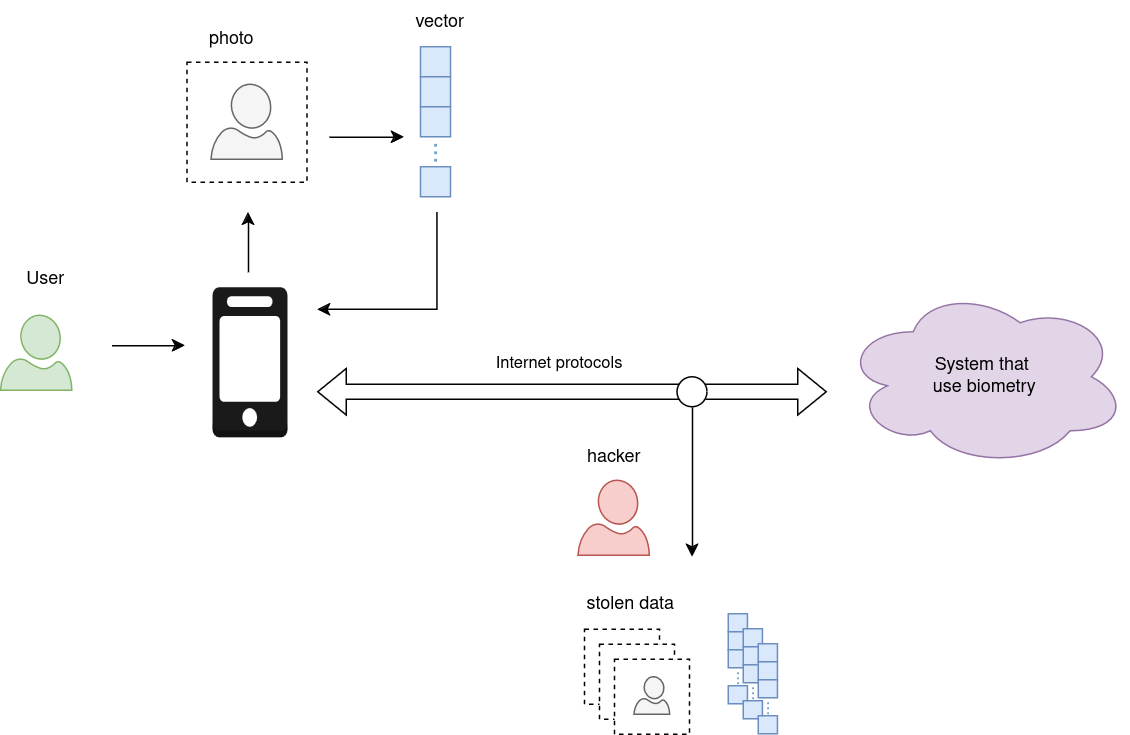
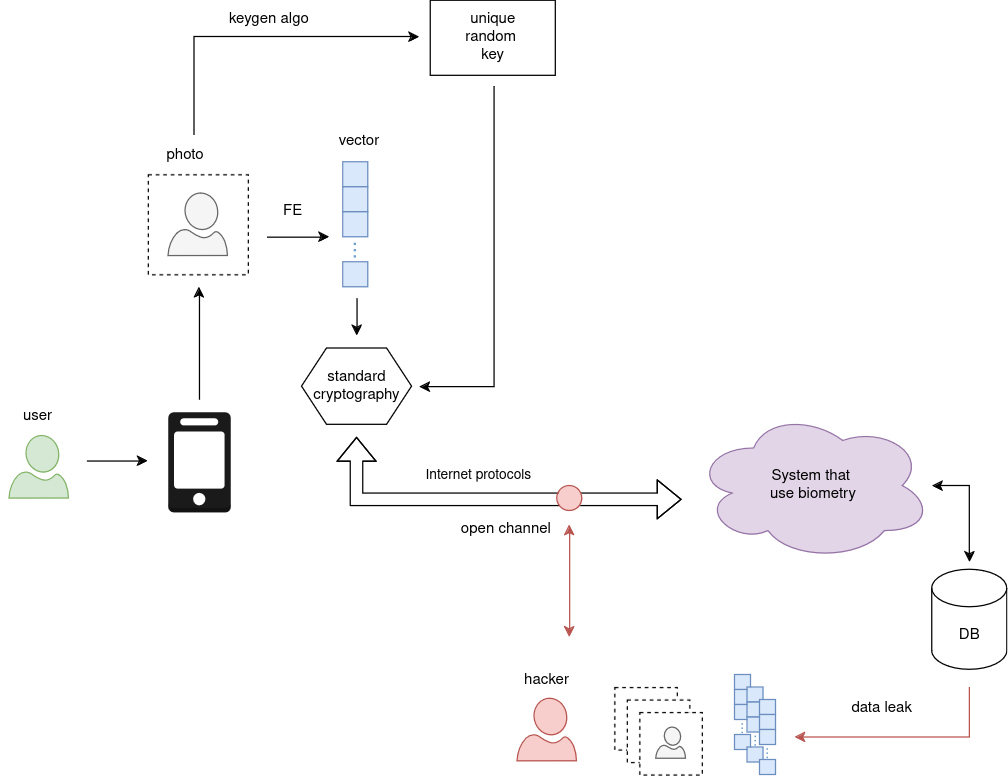
updt demo scripts

diff --git a/train_adapter_for_instantid/demo.py b/train_adapter_for_instantid/demo.py
@@ -1,51 +1,42 @@
 import os
 import base64
 from easydict import EasyDict as edict
-from tools import initialize_onnx_session, CustomDataSet, extract_template_from_image, load_image, \
-    initialize_instantid_session, reconstruct_face_from_template, prepare_target_pose_kps, crop_square_roi, bbox_upscale
+from tools import initialize_onnx_session, extract_template_from_image, load_image, \
+    initialize_instantid_session, reconstruct_face_from_template, prepare_target_pose_kps
 import numpy as np
 import pickle
 from argparse import ArgumentParser
 from insightface.app import FaceAnalysis
 
 argparser = ArgumentParser("Tool to convert buffalo_l templates (non normalized) into photo of the face")
-argparser.add_argument("--input", default="./input.jpg", help="source file to reconstruct (could be .jpg, .pkl or .b64)")
-argparser.add_argument("--adapter", default="./models/buffalo2antelope_adapter_HQ_4000.onnx",
+argparser.add_argument("--input", default="./examples",
+                       help="path to files to reconstruct (files could be .jpg, .png, .pkl or .b64)")
+argparser.add_argument("--adapter", default="./models/buffalo2antelope_adapter_100K.onnx",
                        help="weights of adapter")
-argparser.add_argument("--target_pose_photo", default="./artifacts/portrait1280p.jpg", help="photo to copy face pose")
-argparser.add_argument("--output", default=f"./output.jpg", help="where to save generation result")
+argparser.add_argument("--target_pose_photo", default="./examples/portrait1280p.jpg", help="photo to copy face pose")
+argparser.add_argument("--reconstruction_iterations", type=int, default=16, help="diffusion iterations to make")
+argparser.add_argument("--output", default=f"./examples/adapter", help="where to save generation results")
 args = argparser.parse_args()
 
 if not os.path.exists(args.input):
     print(f"Can not find input '{args.input}'! Abort...")
     exit()
+if not os.path.exists(args.output):
+    os.makedirs(args.output)
+    if not os.path.exists(args.output):
+        print(f"Can not create output path '{args.output}'! Abort...")
+        exit()
 
 cfg = edict()
+cfg.buffalo_cosine_threshold = 0.661  # measured for FMR 1E-6
+cfg.max_allowed_attempts_to_generate_face = 4  # sometime diffusion could not generate face (wrong template projection)
 cfg.target_reconstruction_size = (512, 512)
-cfg.reconstruction_iterations = 40  # low values produce low quality results, high values took too long time
+cfg.reconstruction_iterations = args.reconstruction_iterations
 
 buffalo = FaceAnalysis(name='buffalo_l', root='./', providers=['CUDAExecutionProvider', 'CPUExecutionProvider'])
 buffalo.prepare(ctx_id=0, det_size=(640, 640))
 
-ot = None
-if '.jpg' in args.input or '.png' in args.input:
-    info = extract_template_from_image(load_image(args.input), fa_model=buffalo)
-    if len(info) == 0:
-        print("Can not find face on input image! Abort....")
-    ot = info['embedding']
-elif '.pkl' in args.input:
-    with open(args.input, 'rb') as i_f:
-        ot = pickle.load(i_f)
-elif '.b64' in args.input:
-    with open(args.input, 'r') as i_f:
-        bin_data = base64.b64decode(i_f.read().encode())
-        ot = np.frombuffer(bin_data, dtype=np.float)
-
-if ot is None:
-    print("Template for face generation was not extracted or read from disk! Abort...")
-    exit()
-
-antelope = FaceAnalysis(name='antelopev2', root='./', providers=['CPUExecutionProvider'])
+antelope = FaceAnalysis(name='antelopev2', root='./', providers=['CUDAExecutionProvider', 'CPUExecutionProvider'])
 antelope.prepare(ctx_id=0, det_size=(640, 640))
 
 adapter = initialize_onnx_session(model_path=args.adapter, use_cuda=True)
@@ -54,20 +45,73 @@ instantid = initialize_instantid_session()  # leave default arguments
 
 target_pose_kps = prepare_target_pose_kps(args.target_pose_photo, antelope)
 
-face_not_detected = True
-while face_not_detected:
-    pilimg = reconstruct_face_from_template(template=ot,
-                                            instantid_session=instantid,
-                                            adapter_session=adapter,
-                                            target_kps=target_pose_kps,
-                                            target_size=cfg.target_reconstruction_size,
-                                            iterations=cfg.reconstruction_iterations)
-    info = extract_template_from_image(pilimg, buffalo)
-    if info is not None:
-        rnt = info['embedding'] / np.linalg.norm(info['embedding'])
-        face_not_detected = False
+cosines = []
+for filename in [f.name for f in os.scandir(args.input) if f.is_file()]:
+    ot = None
+    abs_filename = os.path.join(args.input, filename)
+    if '.jpg' in abs_filename or '.jpeg' in abs_filename or '.png' in abs_filename:
+        info = extract_template_from_image(load_image(abs_filename), fa_model=buffalo)
+        if info is None:
+            print(f"Can not detect face on '{abs_filename}'! File will be skipped...")
+            continue
+        ot = info['embedding']
+    elif '.pkl' in abs_filename:
+        with open(abs_filename, 'rb') as i_f:
+            ot = pickle.load(i_f)
+    elif '.b64' in abs_filename:
+        with open(abs_filename, 'r') as i_f:
+            bin_data = base64.b64decode(i_f.read().encode())
+            ot = np.frombuffer(bin_data, dtype=np.float)
+    else:
+        continue
+    # format validation
+    if ot is None:
+        print(f"File: '{abs_filename}' >> template was not extracted or can not be read from disk! Abort...")
+        exit()
+    if not isinstance(ot, np.ndarray):
+        print(f"File: '{abs_filename}' >> template is not numpy array! Abort...")
+        exit()
+    if ot.shape != (512,) and ot.shape != (1, 512):
+        print(f"File: '{abs_filename}' >> template have wrong shape {ot.shape}! Abort...")
+        exit()
+    if 0.999 <= np.linalg.norm(ot) < 1.001:
+        print(f"File: '{abs_filename}' >> template should not be normalized ! Abort...")
+        exit()
 
-ont = ot / np.linalg.norm(ot)
-cosine = np.dot(rnt, ont)
-print(f"COSINE: {cosine:.4f}")
-pilimg.save(args.output)
+    fail_iterations = 0
+    face_not_detected = True
+    while face_not_detected:
+        pilimg = reconstruct_face_from_template(template=ot,
+                                                instantid_session=instantid,
+                                                adapter_session=adapter,
+                                                target_kps=target_pose_kps,
+                                                target_size=cfg.target_reconstruction_size,
+                                                iterations=cfg.reconstruction_iterations)
+        info = extract_template_from_image(pilimg, buffalo)
+        if info is not None:
+            rnt = info['embedding'] / np.linalg.norm(info['embedding'])
+            face_not_detected = False
+        fail_iterations += 1
+        if fail_iterations > cfg.max_allowed_attempts_to_generate_face:
+            break
+    if not face_not_detected:
+        ont = ot / np.linalg.norm(ot)
+        cosine = np.dot(rnt, ont)
+        cosines.append(cosine)
+        print(f"For {abs_filename} we have got COSINE: {cosine:.4f}")
+        abs_target_filename = os.path.join(args.output, filename.rsplit('.', 1)[0] + f"_(cosine {cosine:.4f}).jpg")
+        pilimg.save(abs_target_filename)
+    else:
+        cosines.append(0)
+        print(f"For {abs_filename} we could not reconstruct face within max allowed attempts :(")
+
+if len(cosines) > 0:
+    print(f"STATISTICS ON {len(cosines)} TEST SAMPLES FROM '{args.input}':")
+    cosines = np.array(cosines)
+    print(f" - COSINE MIN:    {cosines.min().item():.4f}")
+    print(f" - COSINE MEAN:   {cosines.mean().item():.4f}")
+    print(f" - COSINE MEDIAN: {np.median(cosines).item():.4f}")
+    print(f" - COSINE MAX:    {cosines.max().item():.4f}")
+    tp = np.sum(cosines > cfg.buffalo_cosine_threshold)
+    print(f"TOTAL: {tp} of {len(cosines)} have cosine with genuine template greater than {cfg.buffalo_cosine_threshold:.3f}"
+          f" >> it is {100*tp/len(cosines):.1f} % of enrolled samples")

diff --git a/train_naive_decoder/demo.py b/train_naive_decoder/demo.py
@@ -12,11 +12,11 @@ from easydict import EasyDict as edict
 
 
 argparser = ArgumentParser("Tool to convert buffalo_l templates (non normalized) into photo of the face")
-argparser.add_argument("--input", default="./input",
+argparser.add_argument("--input", default="../examples",
                        help="path to files to reconstruct (files could be .jpg, .png, .pkl or .b64)")
 argparser.add_argument("--decoder", default="./weights/buffalo_l_decoder_large_on_vgg11_v1.onnx",
                        help="weights of decoder")
-argparser.add_argument("--output", default=f"./output", help="where to save generation results")
+argparser.add_argument("--output", default=f"../examples/decoder", help="where to save generation results")
 args = argparser.parse_args()
 
 if not os.path.exists(args.input):
@@ -40,14 +40,16 @@ buffalo_fa.prepare(ctx_id=0, det_size=(640, 640))
 buffalo = initialize_onnx_session("../models/buffalo_l/w600k_r50.onnx", use_cuda=False)
 decoder = initialize_onnx_session(args.decoder, use_cuda=False)
 
+cosines = []
 for filename in [f.name for f in os.scandir(args.input) if f.is_file()]:
     ot = None
     abs_filename = os.path.join(args.input, filename)
     if '.jpg' in filename or '.png' in filename:
         source_image = cv2.imread(abs_filename, cv2.IMREAD_COLOR)
         info = extract_template_from_image(source_image, fa_model=buffalo_fa)
-        if len(info) == 0:
-            print("Can not find face on input image! Abort....")
+        if info is None:
+            print(f"Can not detect face on '{abs_filename}'! File will be skipped...")
+            continue
         ot = info['embedding']
     elif '.pkl' in filename:
         with open(args.input, 'rb') as i_f:
@@ -80,6 +82,18 @@ for filename in [f.name for f in os.scandir(args.input) if f.is_file()]:
     rnt = np.reshape(rnt, newshape=(512,))
     ont = np.reshape(ont, newshape=(512,))
     cosine = np.dot(rnt, ont)
+    cosines.append(cosine)
     print(f"For {abs_filename} we have got COSINE: {cosine:.4f}")
     abs_target_filename = os.path.join(args.output, filename.rsplit('.', 1)[0] + f"_(cosine {cosine:.4f}).png")
     cv2.imwrite(abs_target_filename, rec)
+
+if len(cosines) > 0:
+    print(f"STATISTICS ON {len(cosines)} SAMPLES FROM '{args.input}':")
+    cosines = np.array(cosines)
+    print(f" - COSINE MIN:    {cosines.min().item():.4f}")
+    print(f" - COSINE MEAN:   {cosines.mean().item():.4f}")
+    print(f" - COSINE MEDIAN: {np.median(cosines).item():.4f}")
+    print(f" - COSINE MAX:    {cosines.max().item():.4f}")
+    tp = np.sum(cosines > cfg.buffalo_cosine_threshold)
+    print(f"TOTAL: {tp} of {len(cosines)} have cosine with genuine template greater than {cfg.buffalo_cosine_threshold:.3f}"
+          f" >> it is {100*tp/len(cosines):.1f} % of enrolled samples")

diff --git a/train_adapter_for_instantid/validate.py b/train_adapter_for_instantid/validate.py
@@ -31,7 +31,7 @@ cfg.visualize = True
 cfg.visualize_ms = 30  # 0 - wait key press
 cfg.size_for_visualization = (256, 256)
 cfg.target_reconstruction_size = (512, 512)
-cfg.reconstruction_iterations = 15  # low values produce low quality results, high values took too long time
+cfg.reconstruction_iterations = 11  # low values produce low quality results, high values took too long time
 cfg.max_samples_to_collect = args.max_ids  # we will take 1 sample per id
 
 buffalo = FaceAnalysis(name='buffalo_l', root='./', providers=['CUDAExecutionProvider', 'CPUExecutionProvider'])
@@ -90,7 +90,7 @@ for template, photo, filename in test_dataloader:
     # save generation locally
     _id = filename[0].split('/', 1)[0]
     os.makedirs(os.path.join(artifacts_path, _id))
-    pilimg.save(f'{os.path.join(artifacts_path, filename[0])}.jpg')
+    pilimg.save(f'{os.path.join(artifacts_path, filename[0].rsplit(".",1)[0])}.jpg')
 
     if cfg.visualize:
         orig = photo.squeeze(0).cpu().numpy()

diff --git a/train_adapter_for_instantid/tools.py b/train_adapter_for_instantid/tools.py
@@ -118,10 +118,10 @@ def reconstruct_face_from_template(template, instantid_session, adapter_session,
     antelope_face_emb = make_onnx_inference(session=adapter_session, input_data=template)
     antelope_face_emb = antelope_face_emb.reshape((512,))
     image = instantid_session(
-        prompt="regular portrait, professional, 4k, highly detailed, white background, hyper-realistic",
+        prompt="regular portrait, professional, 4k, highly detailed, white background, hyper-realistic, skin, pores, wrinkles",
         negative_prompt="drawing, painting, crayon, sketch, graphite, impressionist, noisy, blurry, soft, "
                         "deformed, ugly, text, words, naked, hands, occlusion, sketch, muscules, neon, glow, "
-                        "overexposed",
+                        "overexposed, CGI",
         image_embeds=antelope_face_emb,
         image=target_kps,
         controlnet_conditioning_scale=0.9,

diff --git a/README.md b/README.md
@@ -3,6 +3,19 @@ RBH24
 
 This is SystemFailure solution for Russian Biometric Hackaton 2024
 
+### Reconstructed faces
+
+| Original photo               | Our InstantID adapter                                         | Our decoder                                      |
+|------------------------------|---------------------------------------------------------------|--------------------------------------------------|
+| ![](./examples/crops/ik.jpg) | ![](./examples/adapters/adapterHQ4K/ik_(cosine%200.7578).jpg) | ![](./examples/decoder/ik_(cosine%200.5390).png) |
+|                              | Cosine: 0.7578                                                | Cosine: 0.5390                                   |
+| ![](./examples/crops/ka.jpg) | ![](./examples/adapters/adapterHQ4K/ka_(cosine%200.8520).jpg) | ![](./examples/decoder/ka_(cosine%200.5383).png) |
+|                              | Cosine: 0.8520                                                | Cosine: 0.5383                                   |
+| ![](./examples/crops/kd.jpg) | ![](./examples/adapters/adapterHQ4K/kd_(cosine%200.7562).jpg) | ![](./examples/decoder/kd_(cosine%200.6774).png) |
+|                              | Cosine: 0.7562                                                | Cosine: 0.6774                                   |
+| ![](./examples/crops/at.jpg) | ![](./examples/adapters/adapterHQ4K/at_(cosine%200.7029).jpg) | ![](./examples/decoder/at_(cosine%200.6036).png) |
+|                              | Cosine: 0.7029                                                | Cosine: 0.6036                                   |
+
 ### Installation
 
 ```bash
@@ -15,10 +28,10 @@ pip install -r requirements.txt
 
 1. [./templatesgen](./templatesgen) - scripts to make photo + biometric templates pairs
 
-2. [./train_naive_decoder](./train_naive_decoder) - tools to train template to photo decoder
+2. [./train_naive_decoder](./train_naive_decoder) - tools to train template to photo decoder (demo included)
 
-3. [./train_adapter_for_instantid](./train_adapter_for_instantid) - tools to train adapter for instantid
+3. [./train_adapter_for_instantid](./train_adapter_for_instantid) - tools to train adapter for instantid (demo included)
 
 4. [./researches](./researches) - some researches we have done along the way
 
-5. [./protection](./protection) - how to protect biometric templates?
+5. [./protection](./protection) - biometric templates protection research

diff --git a/train_adapter_for_instantid/README.md b/train_adapter_for_instantid/README.md
@@ -5,7 +5,9 @@ Here we explore of how to train adapter for stable diffusion for face from biome
 [InstantID](https://github.com/instantX-research/InstantID) is control-net for stable diffusion image generator. It was 
 trained specifically to condition image generation by face similarity score for `insightface/antelopev2`.
 
-## Reasoning
+If you only interestedof how to run results, go to [demo section](#Demo) 
+
+## Experiment reasoning
 
 1. there is a high quality and open source InstanceID model to generate faces from `insightface/antelopev2` feature vector
 2. we have the restriction for attacked model (`insightface/buffalo_l`)
@@ -88,13 +90,15 @@ python validate.py --set glint --max_ids 1000  # test part of glint dataset
 
 ## Demo
 
-Demo allows you to reconstruct face photo from two types of input:
+Demo is a simple script that reconstructs face photos for all files in specific input directory. This files could be 
+original face photos (tebplate extraction by insightface/buffalo_l will be made) or templates in *.pkl or *.b64 formats.
+For each suitable file in input reconstructed face will be saved with the same filename plus cosine similarity with
+the original face template. Before run demo.py, download `buffalo2antelope_adapler_HQ_4K.onnx` file to local disk.
 
- - insighface/buffalo_l template saved as .pkl (numpy array with single (512,) vector of np.float) file or .b64 file (base64 encoded string)
- - photo of a face (insighface/buffalo_l will try to extract template from this photo before reconstruction)
+Link to download adapter: https://disk.yandex.ru/d/7Aq4f_V6bu1V4Q
 
 ```bash
-python demo.py --input source_template.pkl --output ./output.jpg
+python demo.py --input local_path_to_templpates_or_photos_to_reconstruct --output ./output --adapter ./models/buffalo_l_decoder_large_on_vgg11_v1.onnx
 ```
 
-So, reconstructed photo will be saved in --output value. Do not forget to copy `./artifacts` and `./models` to InstatID installation folder!
+Do not forget to copy `./artifacts` and `./models` to InstatID installation folder!

diff --git a/train_naive_decoder/README.md b/train_naive_decoder/README.md
@@ -3,7 +3,9 @@
 Here you can find training scripts and some validation results/artifacts for naive decoder training.
 
 Basically here we have shown that several millions of template+photo pairs is enough to train decoder that will 
-produce synth faces that can surpass cosine similarity threshold for insightface/buffalo_l.     
+produce synth faces that can surpass cosine similarity threshold for insightface/buffalo_l.
+
+If you only interestedof how to run results, go to [demo section](#Demo)
 
 ### Installation
 
@@ -158,12 +160,14 @@ STATISTICS ON 1000 TEST SAMPLES FROM 'glint':
 TOTAL: 253 of 1000 have cosine with genuine template greater than 0.661 >> it is 25.3 % of validation samples
 ```
 
-## How to run demo:
+## Demo:
 
 Demo is a simple script that reconstructs face photos for all files in specific input directory. This files could be 
 original face photos (tebplate extraction by insightface/buffalo_l will be made) or templates in *.pkl or *.b64 formats.
 For each suitable file in input reconstructed face will be saved with the same filename plus cosine similarity with
 the original face template. Before run demo.py, download `buffalo_l_decoder_large_on_vgg11_v1.onnx` file to local disk.
+
+Link to download decoder: https://disk.yandex.ru/d/xy4Vj5m1_Zp3jQ
 
 ```bash
 python demo.py --input local_path_to_templpates_or_photos_to_reconstruct --output ./output --decoder ./weights/buffalo_l_decoder_large_on_vgg11_v1.onnx

diff --git a/protection/README.md b/protection/README.md
@@ -1,48 +1,10 @@
 # Protection
 
-RETHINK EVERITHUNG !!!!!!!!!!!!!!!!!!!!!!!!!!!!
+Here we discuss how to protect biometric templates against reconstruction by means of encoding with key generated from photo 
 
-MAKE RUSSIAN DESCRIPTION!!!!!!!!!!!!!!!!!!!!!!!!!
-
-Here we discuss how to protect biometric templates against reconstruction
+## Scheme of work
 
 ![](./figures/rbh24.png)
 
-### 1. Special distortion of the photo
+## How we will protect templates
 
-For the instance: patching, watermarks, coordinate transforms, etc.
-
-pros:
-
- + could make reconstructed photo looks not like the normal face
-
-cons:
-
- - feature extractor should be trained with distortion
- - performance of feature extractor is likely to drop (higher FMR and FNMR)
-
-### 2. Biometric template augmentation
-
-Could such tactics even protect anything from reconstruction? 
-
-### 3. Liveness for biometric templates
-
-We have found that norm of vectors from the face generated by InstatID are different from real.
-
-![](../researches/result/buffalo_l_instantID.png)
-
-pros: 
-  
- + just add one new component to biometric pipeline
-
-cons:
-
- - classification accuracy could be low
-
-
-## Known approaches
-
-What literature says?
-
-[Cancelable Biometrics: a comprehensive survey](https://www.researchgate.net/publication/336386976_Cancelable_Biometrics_a_comprehensive_survey)
-![](./figures/methods.png)
